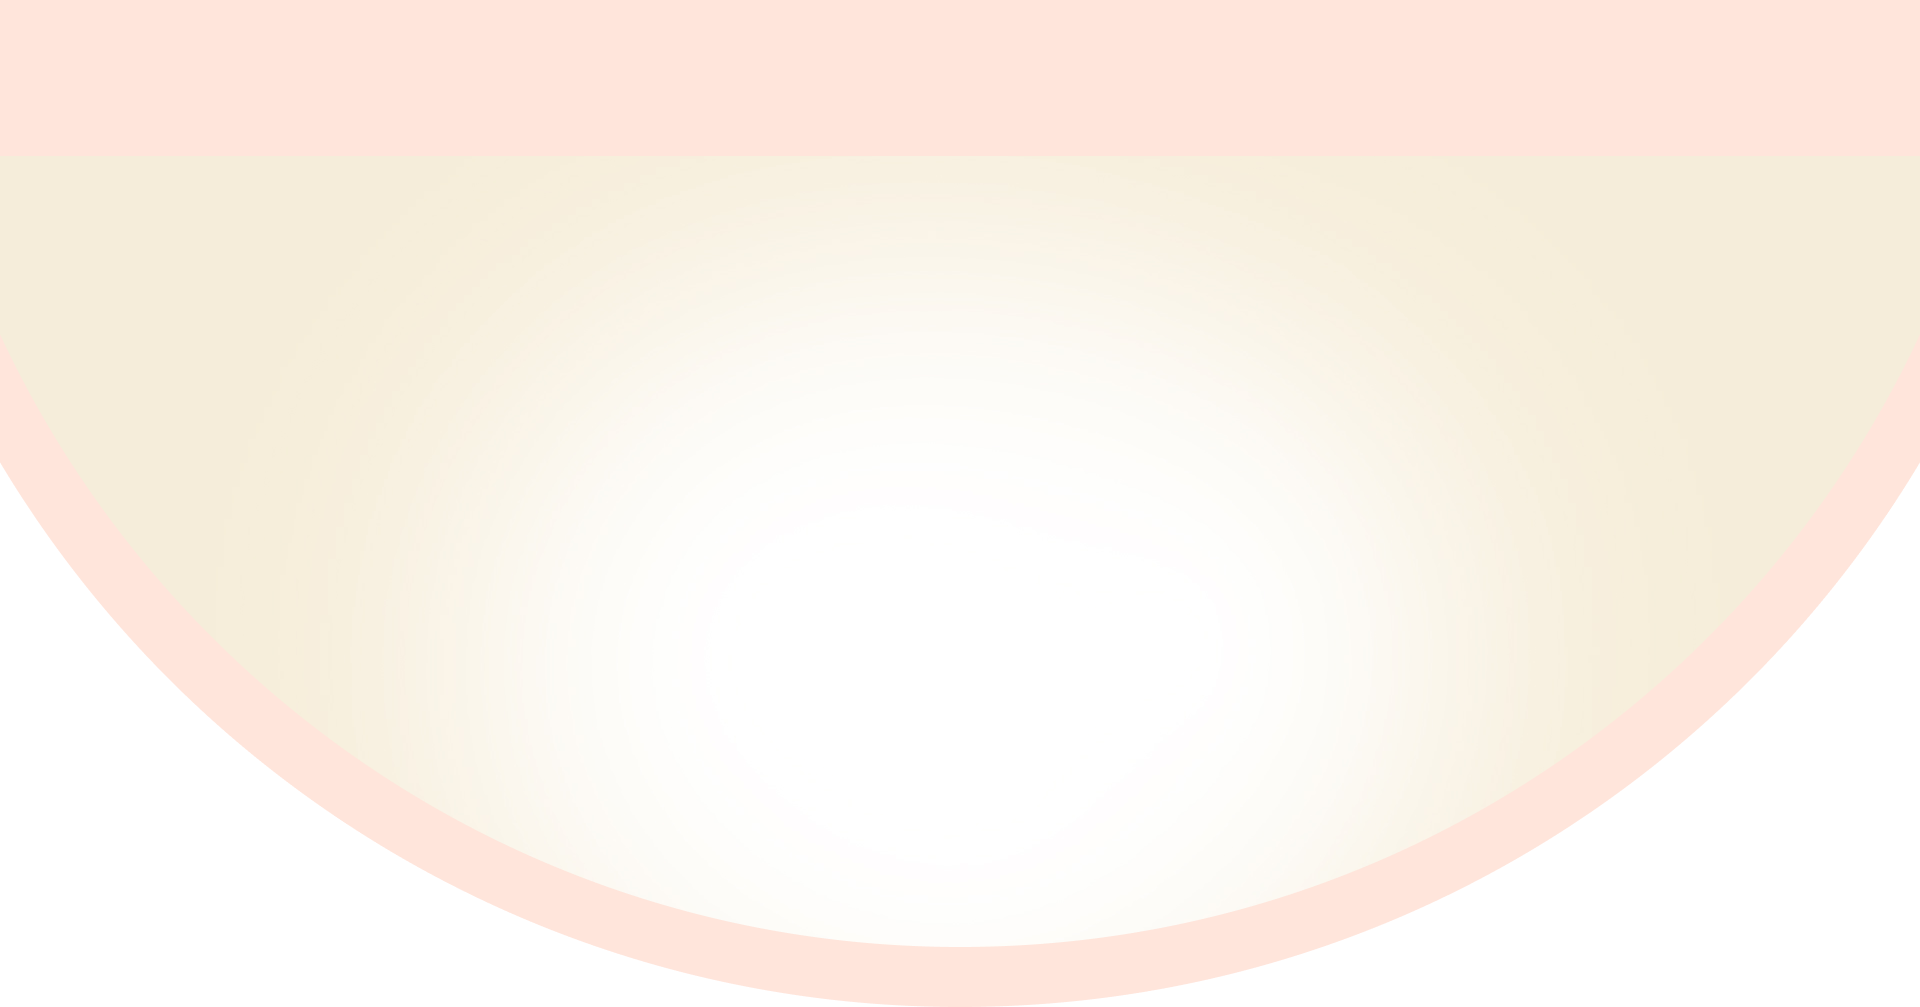
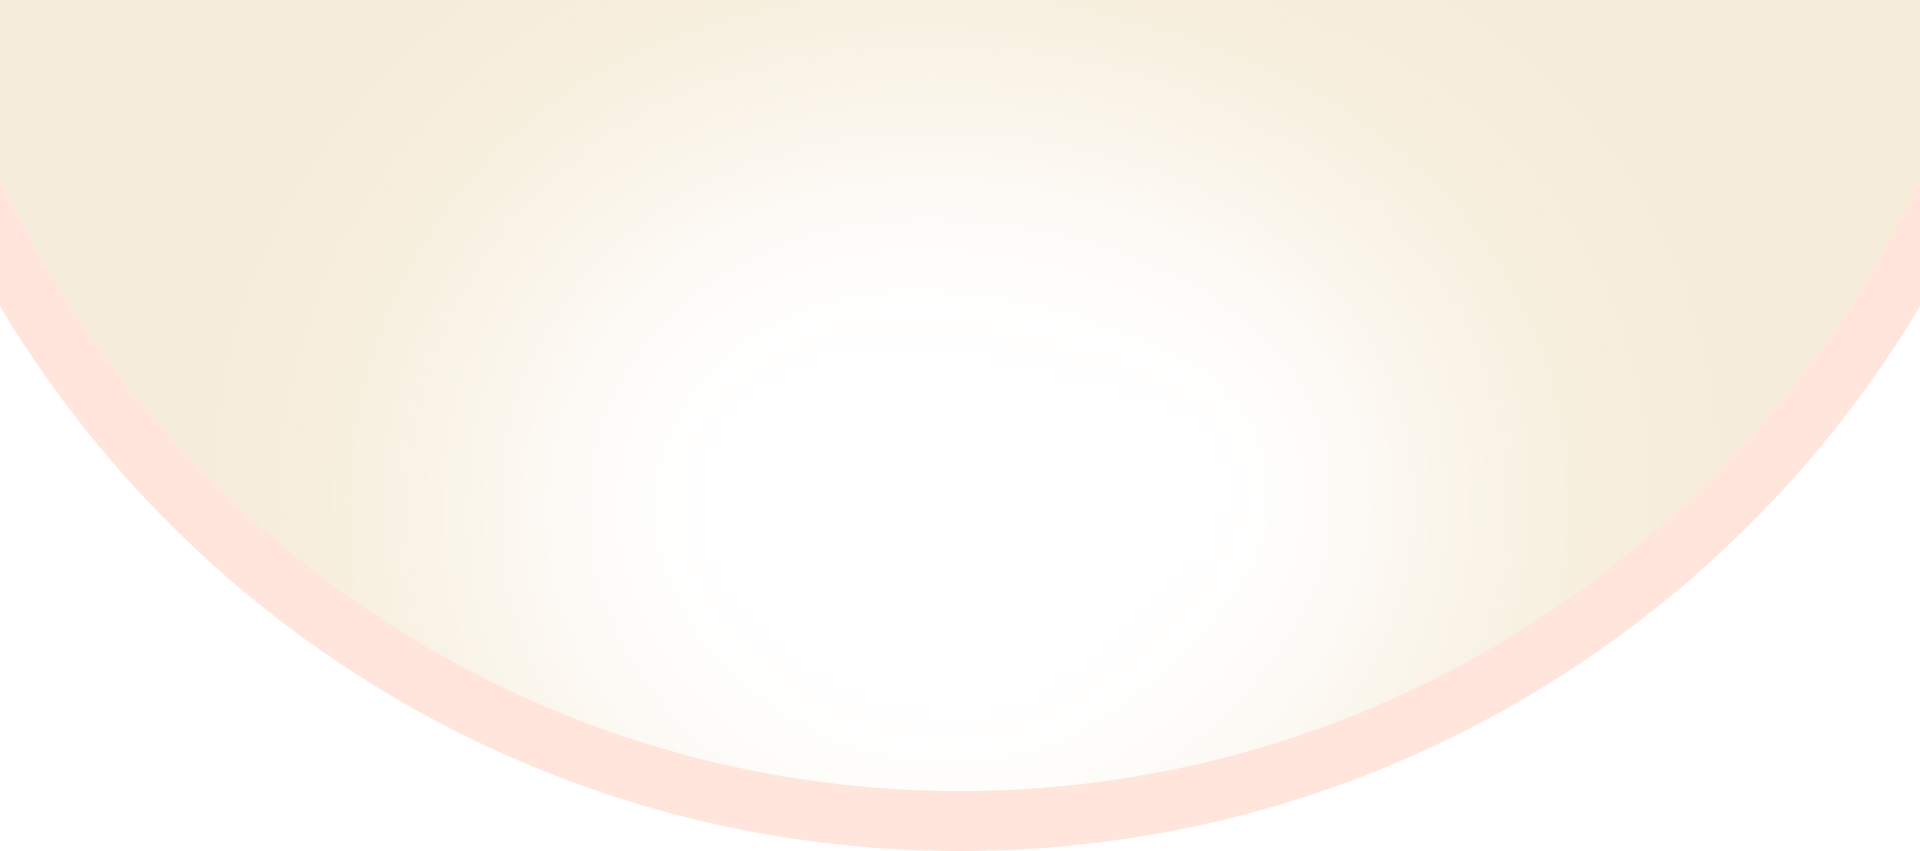
update

diff --git a/components/section/hero/Hero.tsx b/components/section/hero/Hero.tsx
@@ -26,6 +26,7 @@ import BannerFeaturesInfoIcon2 from "@/public/home/home-banner-features-info-ico
 import BannerFeaturesInfoIcon3 from "@/public/home/home-banner-features-info-icon-03.svg"
 import BannerFeaturesInfoOverlayShape1 from "@/public/home/home-curve-shape-01.png"
 import BannerFeaturesInfoOverlayShape2 from "@/public/home/home-curve-shape-02.png"
+import BannerFloatingGraphic from "@/public/home/home-banner-floating-graphic.png"
 import BannerFeaturesInfoFloatingGraphic1 from "@/public/home/home-banner-floating-graphic-01.png"
 import BannerFeaturesInfoFloatingGraphic2 from "@/public/home/home-banner-floating-graphic-02.png"
 import BannerFeaturesInfoFloatingGraphic3 from "@/public/home/home-banner-floating-graphic-03.png"
@@ -35,6 +36,9 @@ export default function Banner() {
     return (
         <Box component="section" className="bannerWrapper">
             <Box className="bannerContentWrapper" sx={{ backgroundImage: `url(${BannerBackground.src})` }}>
+                <Box className="floatingGraphic">
+                    <Image src={BannerFloatingGraphic} alt="banner features info floating graphic" />
+                </Box>
                 <Container>
                     <Stack direction="column" spacing={8}>
                         <Box className="bannerContent" sx={{ textAlign: 'center' }}>

diff --git a/app/scss/home.scss b/app/scss/home.scss
@@ -9,6 +9,17 @@
         align-items: center;
         background-size: cover;
         background-position: bottom;
+        position: relative;
+
+        .floatingGraphic {
+            text-align: center;
+            position: absolute;
+            top: 60px;
+            left: 0;
+            right: 0;
+            max-width: 95%;
+            margin: 0 auto;
+        }
 
         .bannerContent {
             p {
